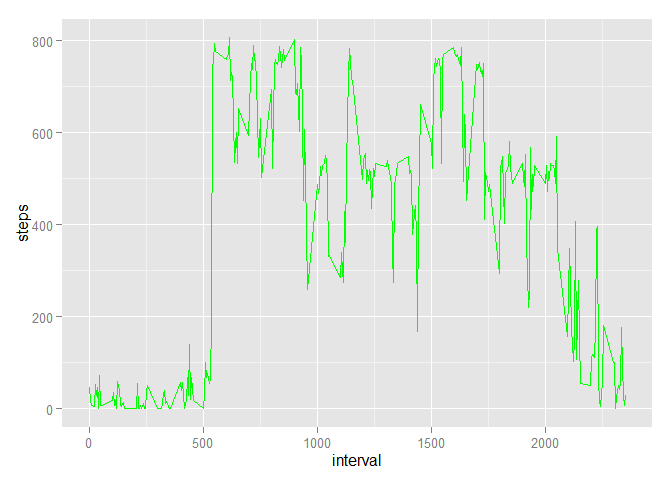
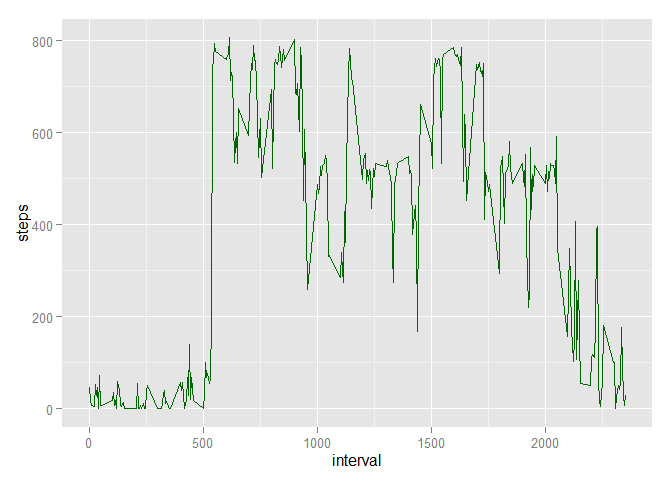
Actualice basicas
Actualice el color de la grafica de max steps por verde oscuro, agregue
la palabra simulated data

diff --git a/PA1_template.html b/PA1_template.html
@@ -104,8 +104,8 @@ ggplot(stpsxtime, aes(x=Interval, y=steps)) + geom_line(colour=&quot;blue&quot;)
 </ol>
 <pre class="r"><code>stpsxtime_max&lt;-summarize(group_by(dt,interval),max(steps))
 colnames(stpsxtime_max)=c(&quot;interval&quot;,&quot;steps&quot;)
-ggplot(stpsxtime_max, aes(x=interval, y=steps)) + geom_line(colour=&quot;green&quot;)</code></pre>
[1 lines of base64/hex data omitted]
+ggplot(stpsxtime_max, aes(x=interval, y=steps)) + geom_line(colour=&quot;darkgreen&quot;)</code></pre>
[1 lines of base64/hex data omitted]
 </div>
 <div id="imputing-missing-values" class="section level2">
 <h2>Imputing missing values</h2>
@@ -156,7 +156,7 @@ new_data&lt;-cbind(new_data,typeofDay)
 stpsxtime&lt;-summarize(group_by(new_data,interval,typeofDay),mean(steps))
 colnames(stpsxtime)[3]=&quot;steps&quot;</code></pre>
 <ol start="2" style="list-style-type: decimal">
-<li>Make a panel plot containing a time series plot (i.e. <code>type = &quot;l&quot;</code>) of the 5-minute interval (x-axis) and the average number of steps taken, averaged across all weekday days or weekend days (y-axis). The plot should look something like the following, which was created using</li>
+<li>Make a panel plot containing a time series plot (i.e. <code>type = &quot;l&quot;</code>) of the 5-minute interval (x-axis) and the average number of steps taken, averaged across all weekday days or weekend days (y-axis). The plot should look something like the following, which was created using <strong>simulated data</strong></li>
 </ol>
 <pre class="r"><code> ggplot(stpsxtime, aes(x=interval, y=steps)) + geom_line(colour=&quot;blue&quot;)+ facet_wrap(~ typeofDay , ncol=1)+theme(strip.text = element_text(size=rel(1.5)),strip.background = element_rect(fill=&quot;pink&quot;,size=2))</code></pre>
[1 lines of base64/hex data omitted]

diff --git a/PA1_template.md b/PA1_template.md
@@ -64,7 +64,7 @@ ggplot(stpsxtime, aes(x=Interval, y=steps)) + geom_line(colour="blue")
 ```r
 stpsxtime_max<-summarize(group_by(dt,interval),max(steps))
 colnames(stpsxtime_max)=c("interval","steps")
-ggplot(stpsxtime_max, aes(x=interval, y=steps)) + geom_line(colour="green")
+ggplot(stpsxtime_max, aes(x=interval, y=steps)) + geom_line(colour="darkgreen")
 ```
 
 ![](PA1_template_files/figure-html/unnamed-chunk-6-1.png) 
@@ -145,7 +145,7 @@ colnames(stpsxtime)[3]="steps"
 ```
 
 
-2. Make a panel plot containing a time series plot (i.e. `type = "l"`) of the 5-minute interval (x-axis) and the average number of steps taken, averaged across all weekday days or weekend days (y-axis). The plot should look something like the following, which was created using 
+2. Make a panel plot containing a time series plot (i.e. `type = "l"`) of the 5-minute interval (x-axis) and the average number of steps taken, averaged across all weekday days or weekend days (y-axis). The plot should look something like the following, which was created using **simulated data**
 
 
 
